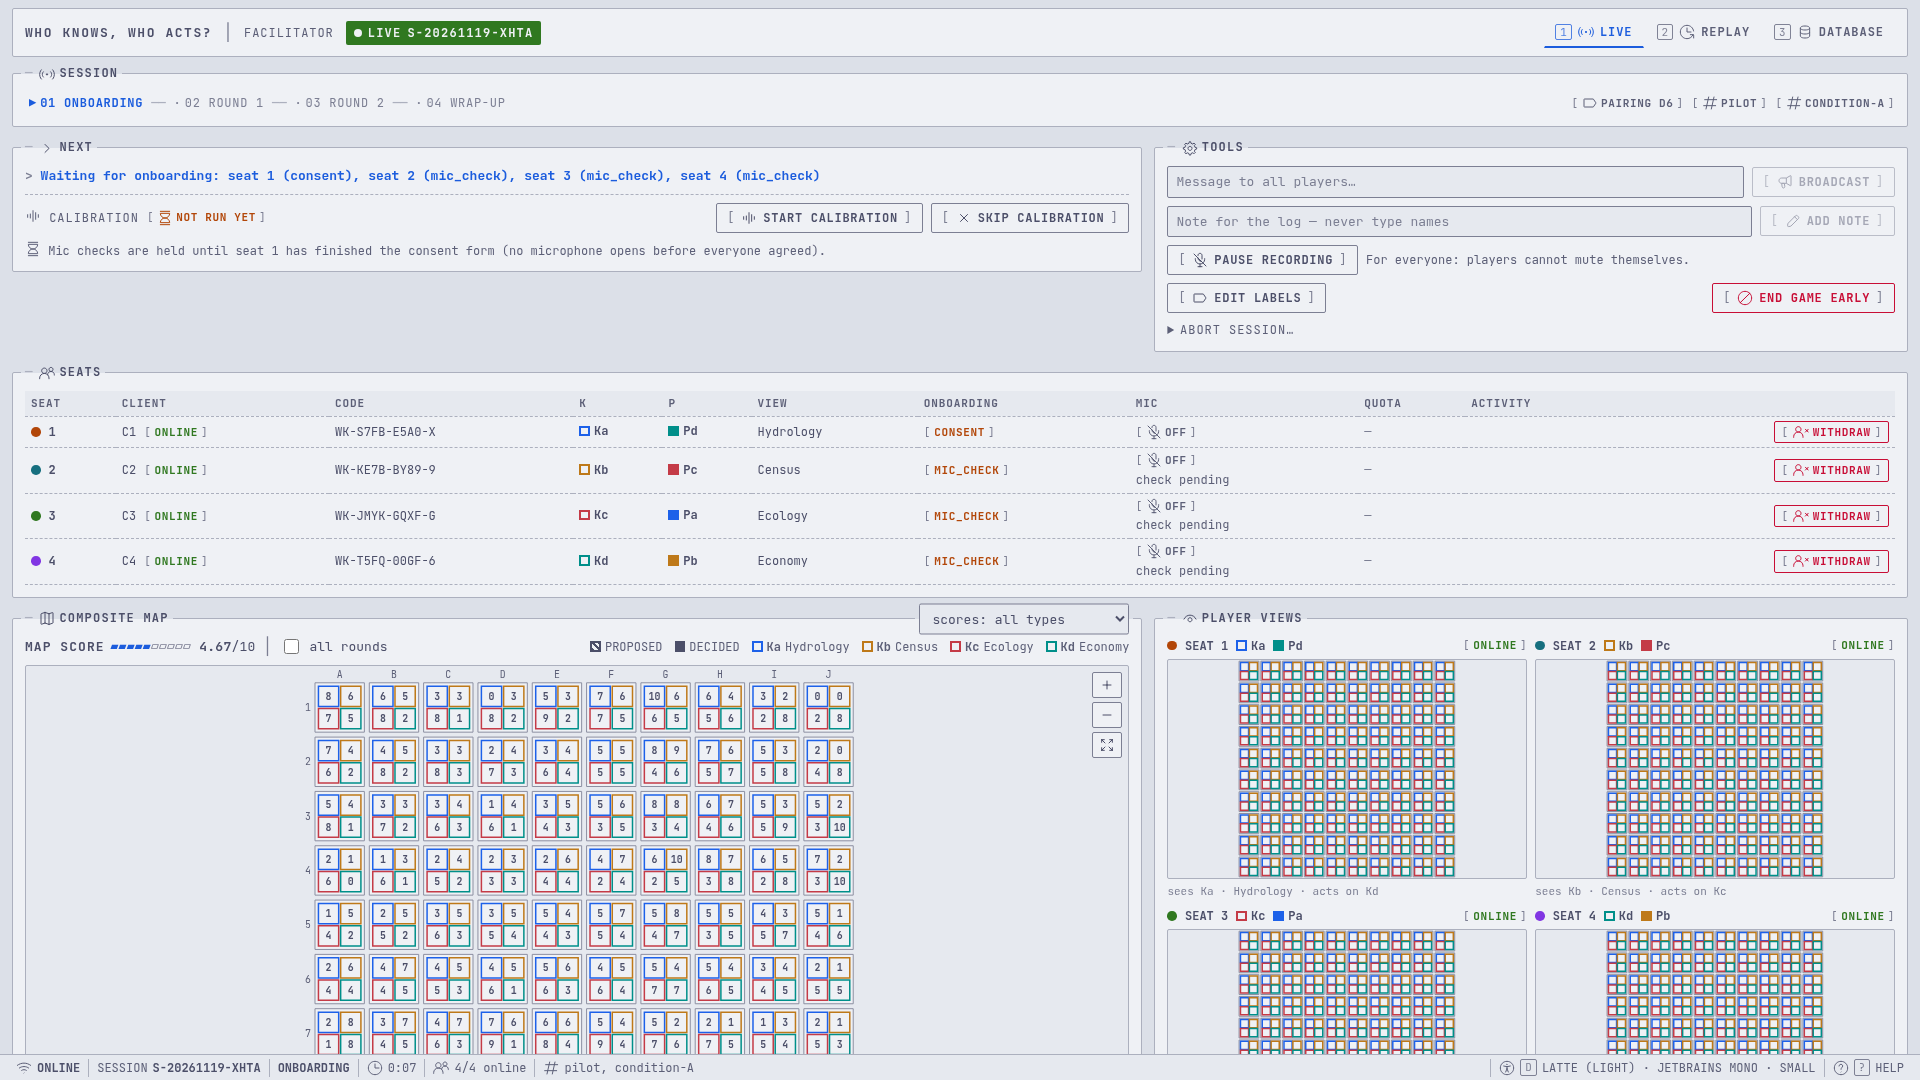
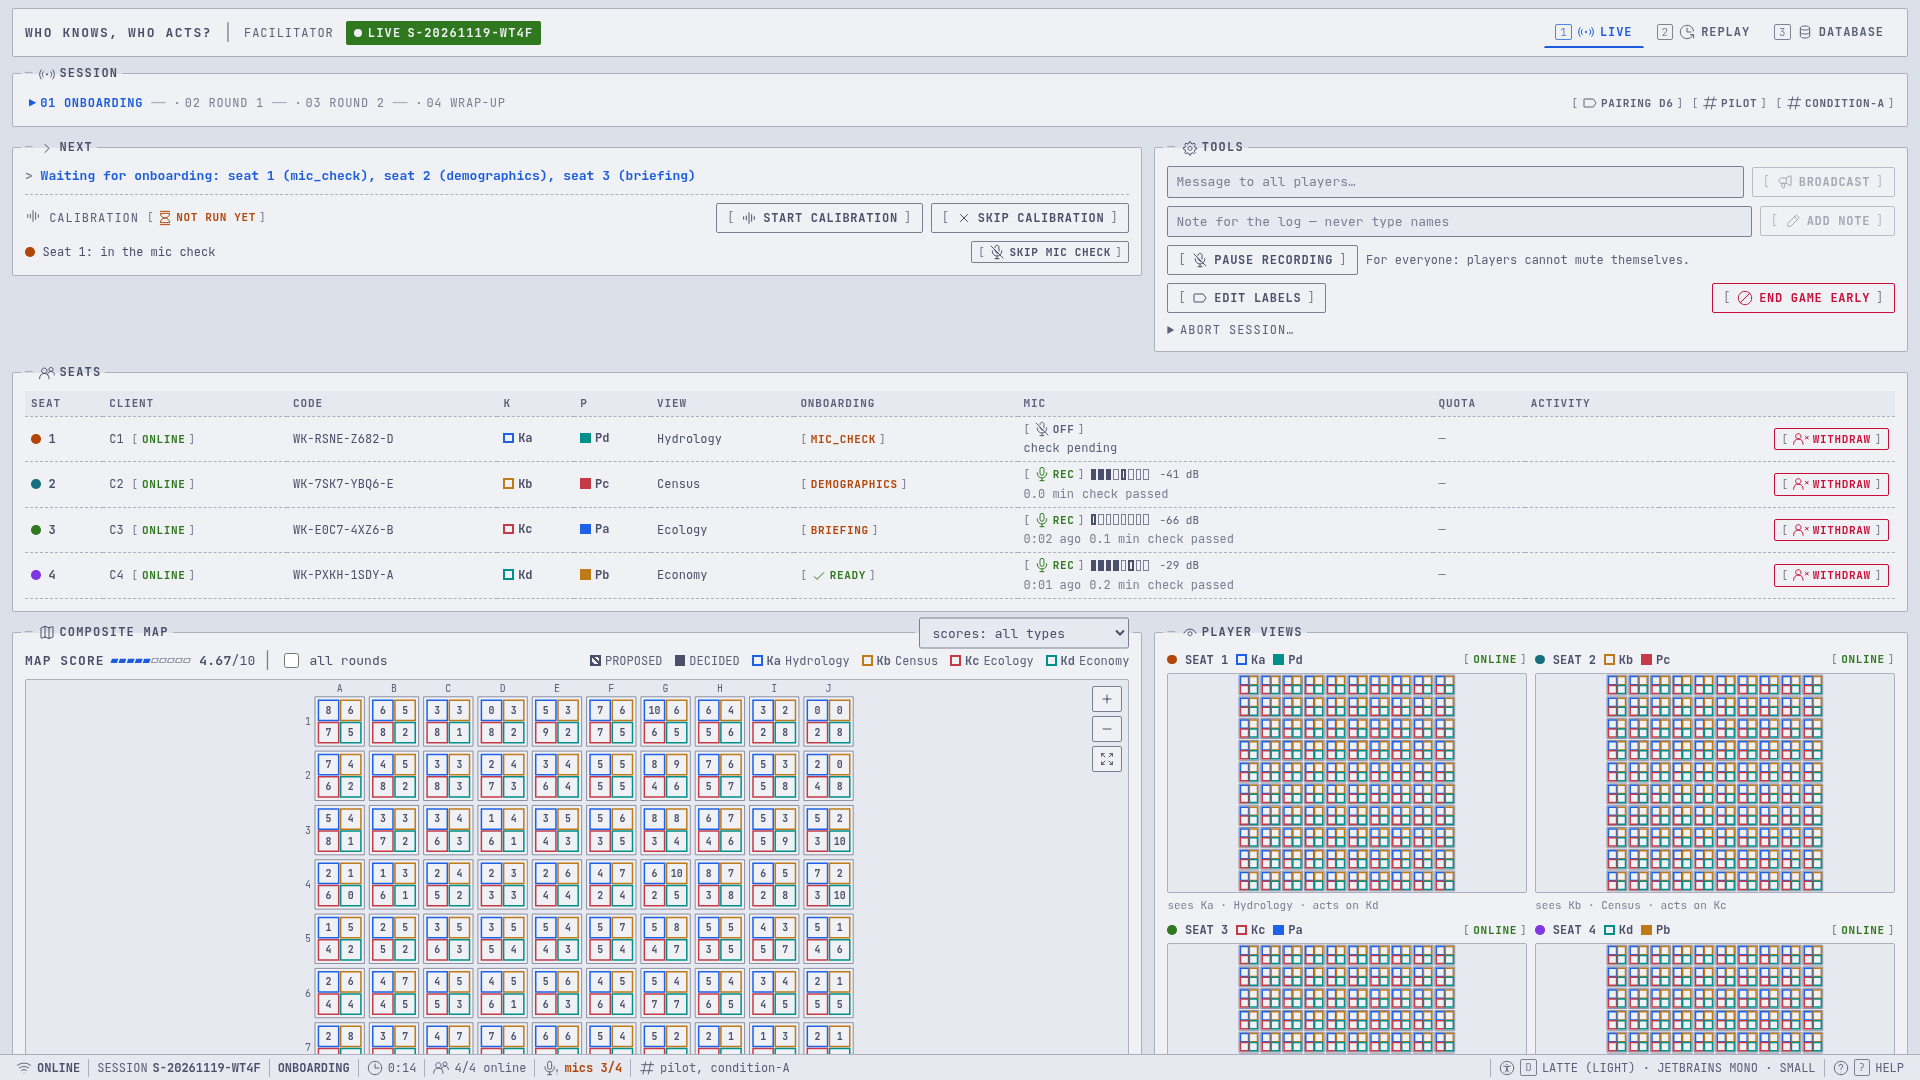
Screenshots: audio feature in the gallery (U15)
New "Recording audio" gallery section (25 shots): the player's mic check
(held, ready, listening, passed, blocked), calibration (waiting, your
turn, stay quiet), recording paused and mic error in the game; the
facilitator's NEXT calibration controls, calibration quality card, event
log, mics n/m status bar, pause recording, skip mic check, LIVE with a
mic error, and DATABASE audio (list, popup, attribution, export, delete).

v2 of the screens the feature changed: setup steps 04, 06 and 07, the
onboarding chrome (consent, about you, ready), LIVE onboarding and round,
seats panel (Mic column), NEXT ready, timeline (mic lanes), TOOLS, wrap-up
close (audio check), the status line REC tag, DATABASE lists, erasure
lookup and replay.

Capture fixes: the bots scenario closes the player pages left by earlier
scenarios (--auto bound those instead of the bots), runs tsx directly and
fails at once if the bots exit; the timeline tooltip retry checks the
tooltip is still there after the crop; a retried crop is reported once.

diff --git a/e2e/screenshots.spec.ts b/e2e/screenshots.spec.ts
@@ -1,4 +1,5 @@
 import { spawn } from "node:child_process";
+import path from "node:path";
 import { expect, type Page, test } from "@playwright/test";
 import { CONTEXT, crop, prime, scenario, shot, writeReport } from "./screenshots/capture";
 import {
@@ -7,6 +8,7 @@ import {
   bind,
   blur,
   briefing,
+  calibrate,
   chooseScenario,
   confirmKeySheet,
   consent,
@@ -132,8 +134,6 @@ scenario(
     await consent(p2);
     await expect(p1.getByText("Information and consent").first()).toBeVisible({ timeout: 20_000 });
     await shot(p1, "client/03-consent");
-    await shot(fac, "server/live-01-onboarding");
-    await crop(fac, "server/live-panel-seats-onboarding", panel(fac, "Seats"));
     await consent(p1);
     await expect(p1.getByRole("button", { name: /Start mic check/ })).toBeVisible({ timeout: 30_000 });
     await shot(p1, "client/audio-02-mic-check-ready");
@@ -144,6 +144,9 @@ scenario(
     await micCheck(p3);
     await aboutYou(p3);
     await micCheck(p2);
+    // the seats at different steps: 4 ready, 3 at the briefing, 2 at about you, 1 in the mic check
+    await shot(fac, "server/live-01-onboarding");
+    await crop(fac, "server/live-panel-seats-onboarding", panel(fac, "Seats"));
     // seat 1: listening (the level meter moves), then passed
     await p1.getByRole("button", { name: /Start mic check/ }).click();
     await expect(p1.getByText("Speech heard")).toBeVisible();
@@ -429,6 +432,8 @@ scenario(
           keepMouse: true,
           wait: 0,
         });
+        // a redraw during the capture drops the tooltip from the crop without an error: check it
+        await expect(fac.locator(".tooltip")).toBeVisible({ timeout: 100 });
         break;
       } catch (e) {
         if (attempt >= 10) throw e;
@@ -651,8 +656,7 @@ scenario(
     await expect(onMicCheck(p1)).toHaveCount(0, { timeout: 30_000 });
     await aboutYou(p1);
     await briefing(p1);
-    await fac.getByRole("button", { name: "Start calibration" }).click();
-    await expect(fac.getByText(/done · /)).toBeVisible({ timeout: 90_000 });
+    await calibrate(fac);
     const start1 = fac.getByRole("button", { name: /Start round 1 of 1/ });
     await expect(start1).toBeEnabled();
     await start1.click();
@@ -699,7 +703,7 @@ scenario(
     await current(fac, "connect");
     // tsx directly (not through npx), so that SIGTERM at the end reaches the bots
     const bots = spawn(
-      "node_modules/.bin/tsx",
+      path.resolve("node_modules/.bin/tsx"),
       [
         "apps/server/src/tools/bots.ts",
         "--url",
@@ -715,17 +719,26 @@ scenario(
       ],
       { stdio: "inherit" },
     );
+    // a spawn error or an early exit of the bots fails the waits below at once
+    const botsDied = new Promise<never>((_, reject) => {
+      bots.once("error", reject);
+      bots.once("exit", (code) => reject(new Error(`the bots exited early (code ${code})`)));
+    });
+    botsDied.catch(() => {}); // handled by the races; the exit after kill() below is expected
+    const whileBots = <T>(p: Promise<T>) => Promise.race([p, botsDied]);
     try {
-      await expect(fac.locator(".live-indicator")).toBeVisible({ timeout: 60_000 });
-      const sessionId = (await fac.locator(".live-indicator").textContent())?.match(/S-[0-9A-Z-]+/)?.[0];
+      await whileBots(expect(fac.locator(".live-indicator")).toBeVisible({ timeout: 60_000 }));
+      const sessionId = (await fac.locator(".live-indicator").textContent())?.match(
+        /\bS-\d{8}-[0-9A-Z]{4}\b/,
+      )?.[0];
       expect(sessionId).toBeTruthy();
-      await expect(fac.getByText(/Game complete/).first()).toBeVisible({ timeout: 400_000 });
+      await whileBots(expect(fac.getByText(/Game complete/).first()).toBeVisible({ timeout: 400_000 }));
       await wrapUp(fac, true);
 
       await blur(fac);
       await fac.keyboard.press("3");
       await expect(fac.locator("nav.subtabs .tab.active")).toContainText("Participants");
-      const row = fac.getByRole("row", { name: new RegExp(`^${sessionId}`) });
+      const row = fac.getByRole("row", { name: new RegExp(`^${sessionId}\\b`) });
       await expect(row).toBeVisible();
       await shot(fac, "server/audio-db-01-list");
 

diff --git a/e2e/screenshots/capture.ts b/e2e/screenshots/capture.ts
@@ -151,7 +151,7 @@ function target(id: ShotId): string | null {
   if (scenarioOf(def) !== running)
     throw new Error(`shot "${id}" is catalogued for scenario "${scenarioOf(def)}" but taken in "${running}"`);
   if (!wanted(id)) return null;
-  captured.push(id);
+  if (!captured.includes(id)) captured.push(id); // a retried capture is reported once
   return path.join(OUT, `${id}.png`);
 }
 

diff --git a/e2e/screenshots/catalogue.ts b/e2e/screenshots/catalogue.ts
@@ -475,7 +475,7 @@ export const SHOTS = [
     id: "server/audio-event-log",
     group: "audio",
     subgroup: "Facilitator: LIVE",
-    title: "Event log: mic checks and calibration",
+    title: "Event log: the calibration",
     size: "half",
     sources: [`${C}/facilitator/EventLog.tsx`, `${C}/facilitator/audioLive.ts`],
   },

diff --git a/docs/img/SCREENSHOTS.md b/docs/img/SCREENSHOTS.md
@@ -118,7 +118,7 @@ Players go through consent → about you → briefing; the facilitator sees whic
 | v1 · 2026-11-18 | v2 · 2026-11-19 |
 | --- | --- |
 | ![Facilitator · LIVE during onboarding v1\|340](./server/live-01-onboarding.png) | ![Facilitator · LIVE during onboarding v2\|340](./server/live-01-onboarding-v2.png) |
-| Every seat at a different onboarding step. | Onboarding with audio: calibration row in NEXT, Mic column, mic checks held until all consented. |
+| Every seat at a different onboarding step. | Onboarding with audio: calibration row and Skip mic check in NEXT, Mic column, mics n/m. |
 
 **Facilitator · Seats panel** · 2 versions, oldest first
 
@@ -128,7 +128,7 @@ Players go through consent → about you → briefing; the facilitator sees whic
 
 ![Facilitator · Seats panel v2|700](./server/live-panel-seats-onboarding-v2.png)
 
-**v2 · 2026-11-19:** New Mic column: each seat's recording state; mic checks pending until everyone has consented.
+**v2 · 2026-11-19:** New Mic column: off until the mic check, then REC with the live level and the check result.
 
 **Facilitator · NEXT panel** · 2 versions, oldest first
 
@@ -443,6 +443,11 @@ Optional microphone recording (setup step 04, "Record audio"): each player's own
 
 **Facilitator · Calibration quality:** Calibration quality: each seat's own voice against the loudest other mic, verdict and advice.
 
+| | |
+| --- | --- |
+| ![Facilitator · Event log: the calibration\|340](./server/audio-event-log.png) |  |
+| **Facilitator · Event log: the calibration:** Event log after the calibration: its start, each seat's turn, completion and the quality check. |  |
+
 ![Facilitator · Status bar with mics n/m|700](./server/audio-status-bar.png)
 
 **Facilitator · Status bar with mics n/m:** Status bar with mics 4/4: how many seats are recording right now.
@@ -503,8 +508,8 @@ Newest first: every new version of a screen, and when new screens were added.
 | 2026-11-19 | Consent | v2 | Mic check step in the progress bar; the consent text gains an Audio recording section. |
 | 2026-11-19 | About you | v2 | REC bar on top while the microphone records; the mic check step is done in the progress bar. |
 | 2026-11-19 | Ready | v2 | Ready with audio: REC bar on top, and a note that a short sound calibration comes next. |
-| 2026-11-19 | LIVE during onboarding | v2 | Onboarding with audio: calibration row in NEXT, Mic column, mic checks held until all consented. |
-| 2026-11-19 | Seats panel | v2 | New Mic column: each seat's recording state; mic checks pending until everyone has consented. |
+| 2026-11-19 | LIVE during onboarding | v2 | Onboarding with audio: calibration row and Skip mic check in NEXT, Mic column, mics n/m. |
+| 2026-11-19 | Seats panel | v2 | New Mic column: off until the mic check, then REC with the live level and the check result. |
 | 2026-11-19 | NEXT panel | v2 | Everyone ready: with audio, NEXT asks for the calibration before round 1. |
 | 2026-11-19 | Status line | v2 | REC tag in the status line while the microphone records. |
 | 2026-11-19 | LIVE during round 1 | v2 | Round with audio: calibration card, Mic column with live levels, mics n/m in the status bar. |
@@ -517,5 +522,5 @@ Newest first: every new version of a screen, and when new screens were added.
 | 2026-11-19 | DATABASE · Simulations | v2 | Audio column in the simulation list too: simulated sessions never record audio. |
 | 2026-11-19 | REPLAY · A session | v2 | Replay shows audio events in the event line and mic lanes in the timeline. |
 | 2026-11-19 | Erasure lookup | v2 | Erasure lookup also counts the code's audio tracks and their recorded time. |
-| 2026-11-19 | 24 screens | v1 | First version. |
+| 2026-11-19 | 25 screens | v1 | First version. |
 | 2026-11-18 | 77 screens | v1 | First version. |
